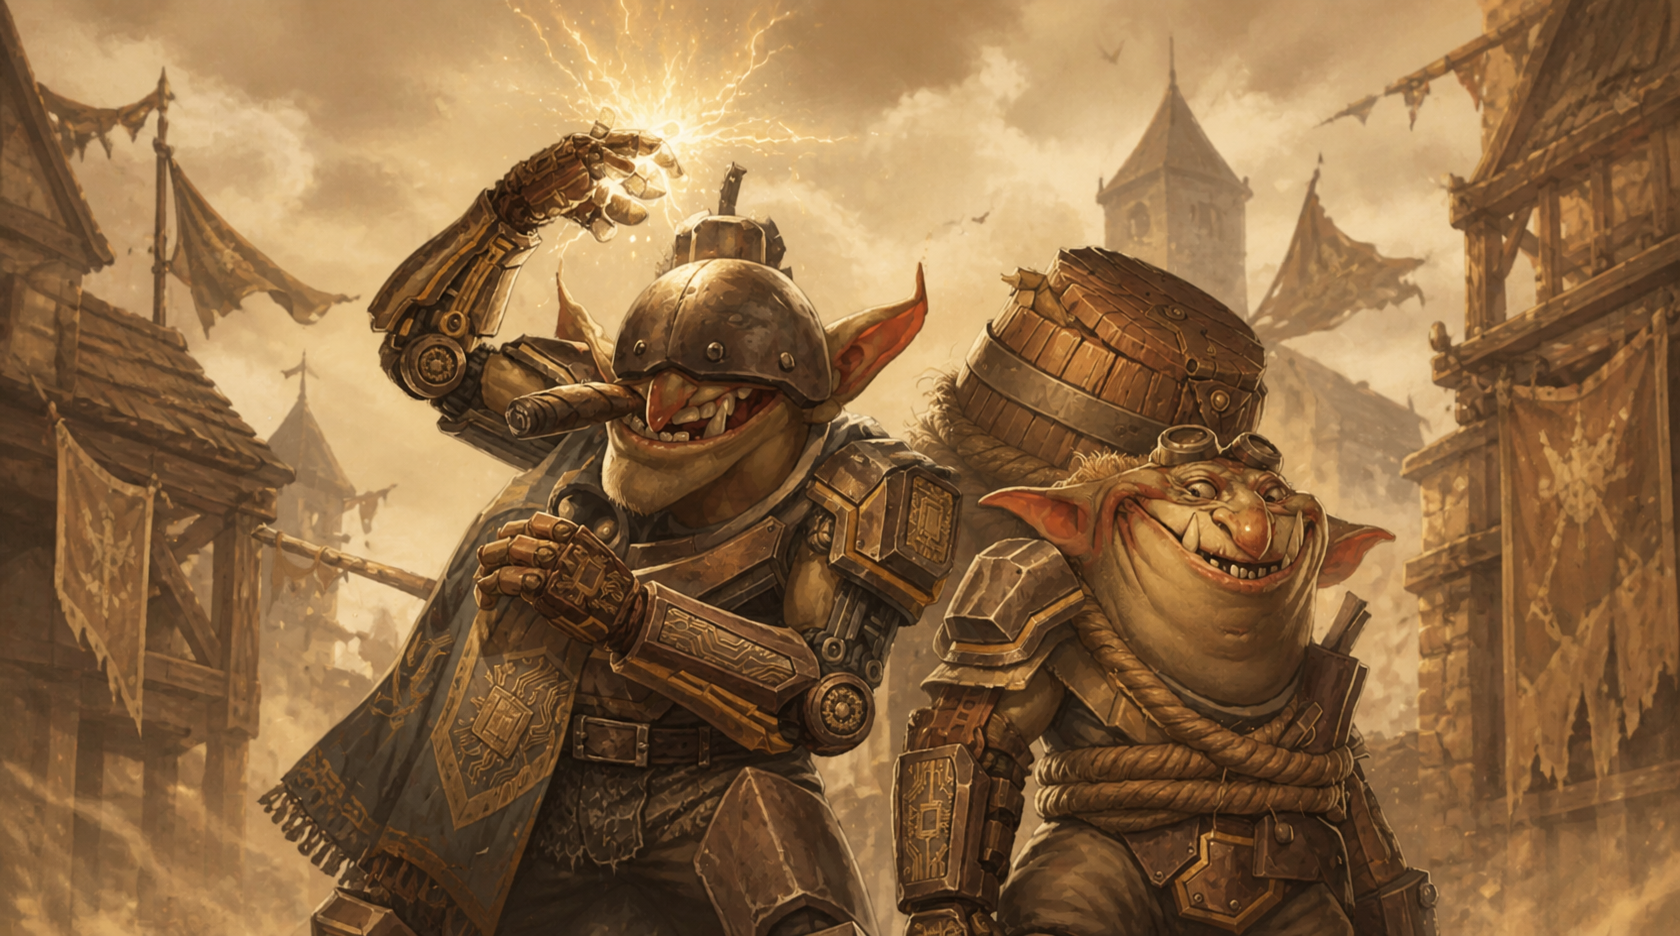
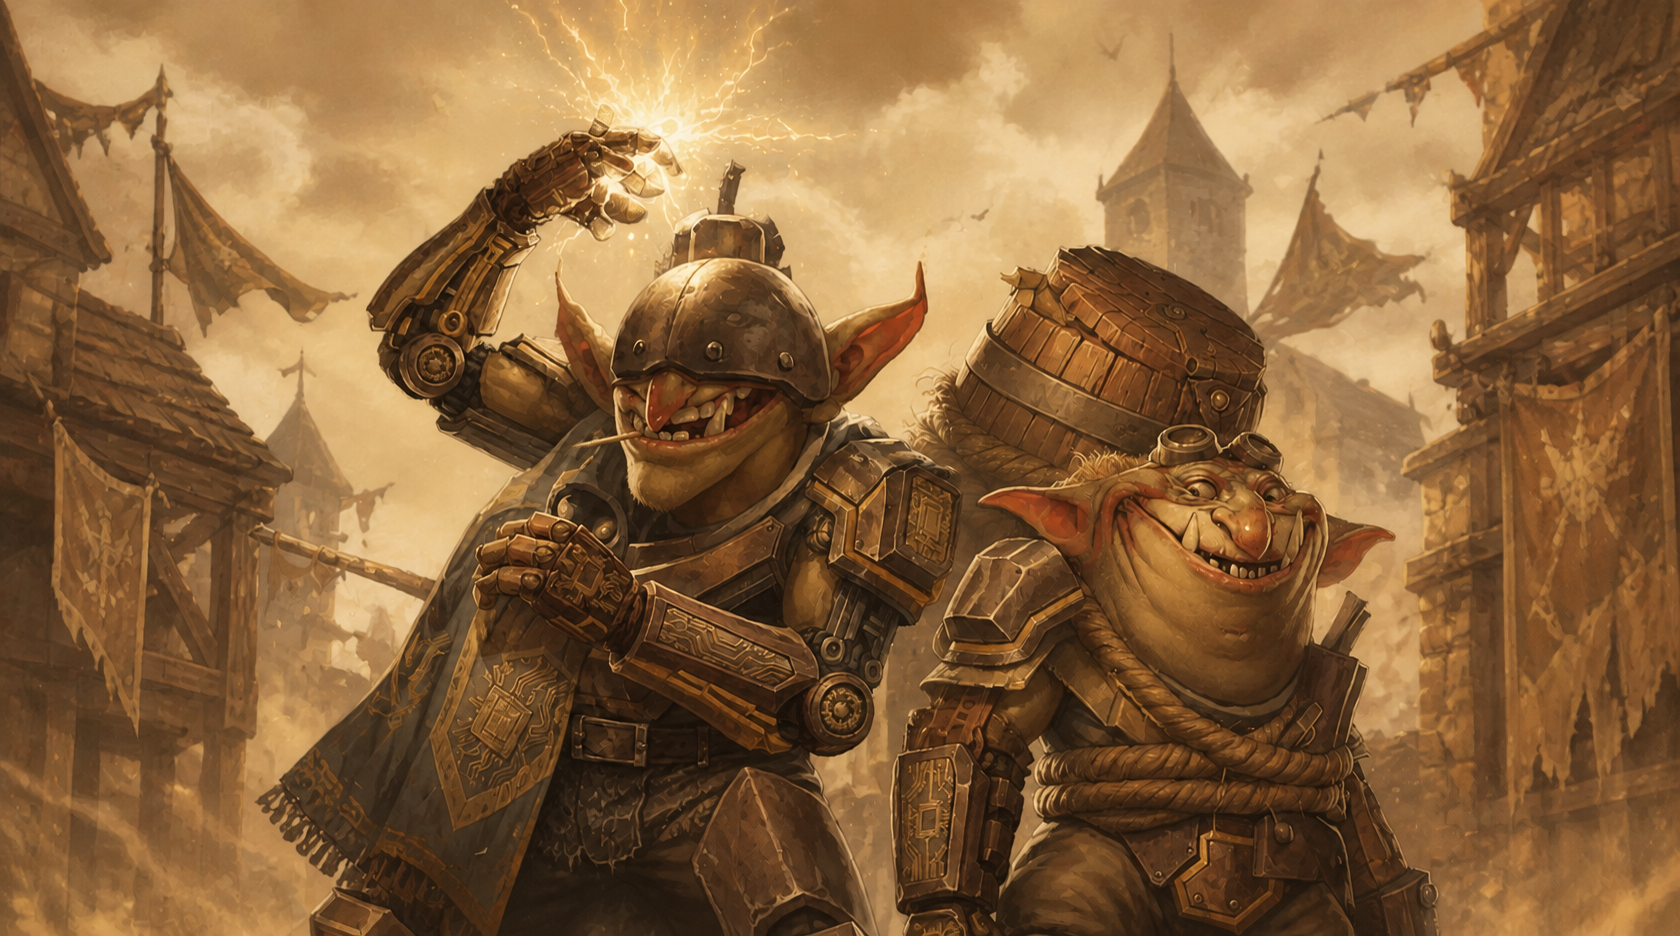
New images + eng version

diff --git a/game.js b/game.js
@@ -64,10 +64,22 @@
     space: loadImage('./assets/black-hole.png'),
   };
   const milestoneImages = {
-    25: loadImage('./assets/troll2_1.png'),
-    50: loadImage('./assets/gj3.png'),
-    75: loadImage('./assets/gj2.png'),
-    90: loadImage('./assets/troll2_2.png'),
+    25: {
+      ru: loadImage('./assets/troll2_1.png'),
+      en: loadImage('./assets/troll2_1_eng.png'),
+    },
+    50: {
+      ru: loadImage('./assets/gj3.png'),
+      en: loadImage('./assets/gj3_eng.png'),
+    },
+    75: {
+      ru: loadImage('./assets/gj2.png'),
+      en: loadImage('./assets/gj2_eng.png'),
+    },
+    90: {
+      ru: loadImage('./assets/troll2_2.png'),
+      en: loadImage('./assets/troll2_2_eng2.png'),
+    },
   };
   const milestoneSounds = {
     25: new Audio('./assets/sounds/hmm.mpeg'),
@@ -441,6 +453,12 @@
       if (state.screen === 'game') draw();
     });
     return img;
+  }
+
+  function getLocalizedMilestoneImage(milestoneKey) {
+    const images = milestoneImages[milestoneKey];
+    if (!images) return null;
+    return currentLanguage === 'en' ? (images.en || images.ru) : (images.ru || images.en);
   }
 
   function notifyGameReady() {
@@ -861,6 +879,7 @@
   function applyLanguageToDom() {
     document.documentElement.lang = t('html_lang');
     document.title = t('app_name');
+    document.body.dataset.lang = currentLanguage;
     const app = document.getElementById('app');
     if (app) app.setAttribute('aria-label', t('app_name'));
     const menuTitle = document.querySelector('.menuTitle');
@@ -1509,7 +1528,7 @@
   function processMilestoneQueue() {
     if (state.milestoneActive || !state.milestoneQueue.length || state.screen !== 'game' || state.over) return;
     const milestoneKey = state.milestoneQueue.shift();
-    const milestoneImage = milestoneImages[milestoneKey];
+    const milestoneImage = getLocalizedMilestoneImage(milestoneKey);
     if (!milestonePopup || !milestonePopupImage || !milestoneImage) return;
 
     syncMilestonePopupLayout();
